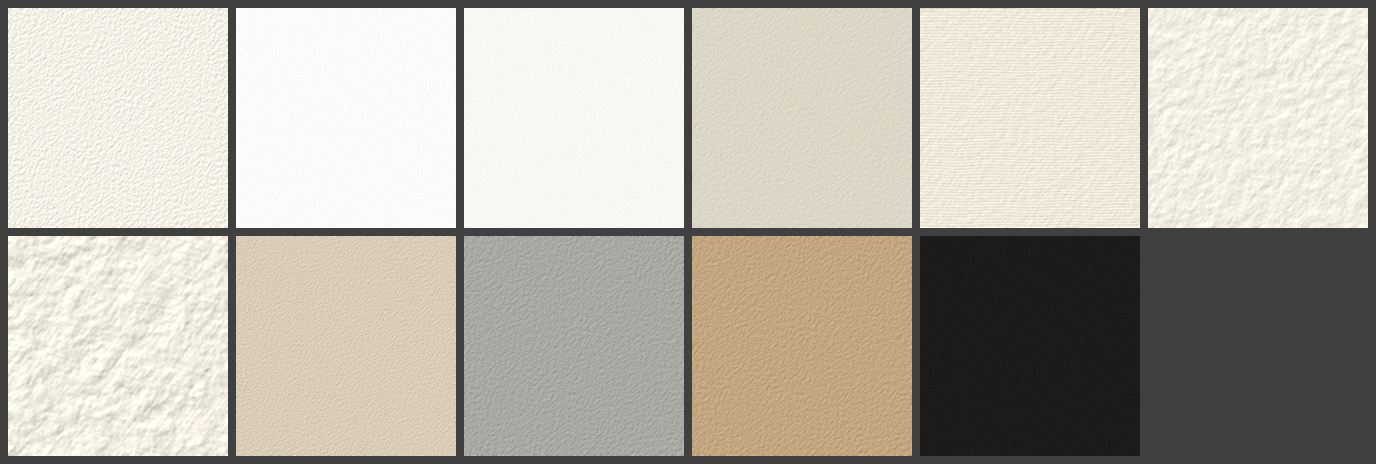
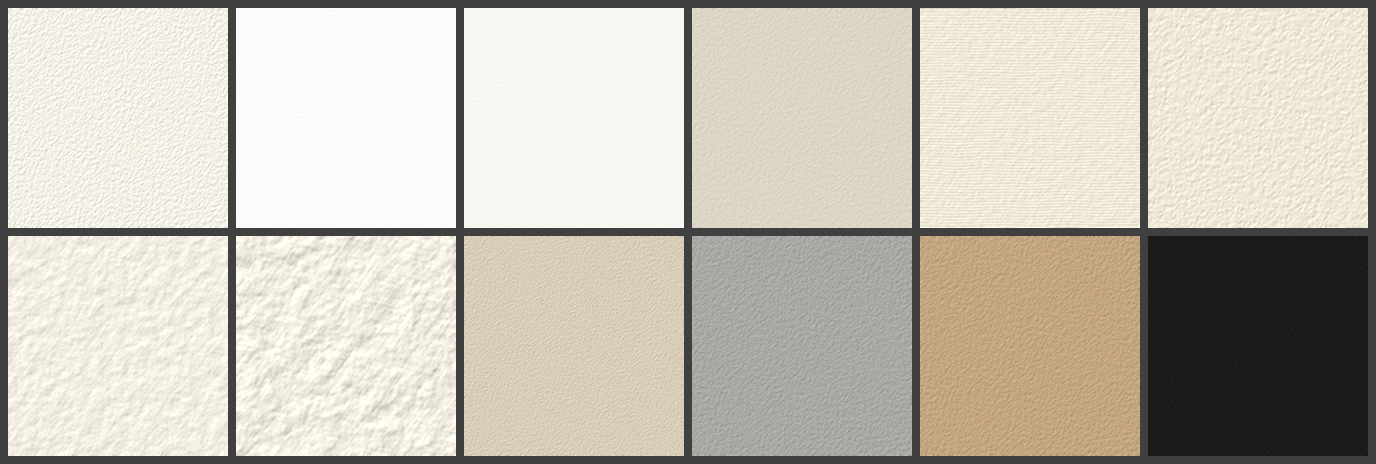
A pebbled paper texture for charcoal (joce/fusain#29)
* A pebbled paper for charcoal, between wove and rough

Paper(texture="pebbled") and the preset papers.CHARCOAL: small irregular
pits, each with its own depth and outline, in a net of lumpy rims. Its tooth
varies at the scale of a pit and little beside: a wove paper is all fine
flecks, and a rough one at a small grain is blotchy. The other textures and
papers draw as before; examples/output/papers.png gains a swatch.

Claude-Session: https://claude.ai/code/session_01EHReoiZM458FQgDCGHibf5

* Close fusain-1rt

Claude-Session: https://claude.ai/code/session_01EHReoiZM458FQgDCGHibf5

---------

diff --git a/murex/fusain/paper.py b/murex/fusain/paper.py
@@ -11,10 +11,29 @@ from murex import noise as nz
 from murex import spectral as sp
 from murex.filters import box_blur
 
-TEXTURES = ("wove", "laid", "rough", "sanded")
+TEXTURES = ("wove", "laid", "rough", "pebbled", "sanded")
 
 #: Laid paper: the chain lines are this many laid lines apart.
 CHAIN_SPACING = 18.0
+#: Pebbled paper: its pits are this many ``grain`` apart, centre to centre
+#: (a pit is about a grain across; the rest is the rim between two of them).
+PIT_SPACING = 1.3
+#: How far a pit may sit from its place in the grid, as a share of the
+#: spacing: nearly all the way, so that no rows or columns of pits show.
+PIT_SCATTER = 0.9
+#: How far the walls of a pit reach in from its rim, as a share of the
+#: spacing: its floor is what is further in than that.
+PIT_WALL = 0.8
+#: The shallowest pit, as a share of the deepest.
+PIT_SHALLOWEST = 0.3
+#: How far the outline of a pit strays from the straight sides its
+#: neighbours would give it, as a share of the spacing.
+PIT_STRAY = 0.3
+#: Pebbled paper: how much of the height is in the lumps of the rims between
+#: the pits, and how much in the fibres over everything, beside a depth of 1
+#: for the deepest pit.
+PEBBLE_LUMPS = 1.0
+PEBBLE_FIBRES = 0.2
 
 
 @dataclass(frozen=True)
@@ -32,13 +51,16 @@ class Paper:
     texture:
         ``"wove"`` (felted fibres, the usual drawing paper), ``"laid"`` (fine
         parallel lines crossed by chain lines, as in Ingres paper),
-        ``"rough"`` (the bumps of cold-pressed and rough watercolour paper)
-        or ``"sanded"`` (the sharp grit of pastel card).
+        ``"rough"`` (the bumps of cold-pressed and rough watercolour paper),
+        ``"pebbled"`` (the small irregular pits of a charcoal or pastel
+        paper, as if pressed with a felt) or ``"sanded"`` (the sharp grit of
+        pastel card).
     grain:
         Size of the tooth in pixels: the distance between neighbouring bumps
         of a wove paper, the spacing of the laid lines, the size of a bump of
-        a rough paper or of a grain of grit. This is what sets the scale of a
-        drawing: on drawing paper a pencil line is two or three grains wide.
+        a rough paper, of a pit of a pebbled one or of a grain of grit. This
+        is what sets the scale of a drawing: on drawing paper a pencil line
+        is two or three grains wide.
     depth:
         How deep the tooth is (0 = flat): how far a tip has to reach to touch
         the valleys, how many layers the paper takes, and how strongly the
@@ -90,7 +112,13 @@ class Paper:
 
     def tooth(self, h: int, w: int, rng: np.random.Generator) -> np.ndarray:
         """Height of the surface, (h, w) float32 from 0 (valley) to 1 (peak)."""
-        make = {"wove": _wove, "laid": _laid, "rough": _rough, "sanded": _sanded}
+        make = {
+            "wove": _wove,
+            "laid": _laid,
+            "rough": _rough,
+            "pebbled": _pebbled,
+            "sanded": _sanded,
+        }
         return _unit(make[self.texture](h, w, self.grain, rng)).astype(np.float32)
 
     def reflectance(self) -> np.ndarray:
@@ -141,6 +169,60 @@ def _rough(h, w, grain, rng) -> np.ndarray:
     bumps = nz.fractal_noise_2d(h, w, grain * 2.0, rng, octaves=3)
     fibres = nz.paper(h, w, grain * 0.5, rng)
     return 0.75 * _unit(bumps) + 0.25 * fibres
+
+
+def _pebbled(h, w, grain, rng) -> np.ndarray:
+    """Pits about ``grain`` across, :data:`PIT_SPACING` of it apart and
+    scattered, each with its own depth and its own outline; lumpy rims
+    between them; fibres over both. Nothing varies over more than a few pits
+    and little over less than one: a tone laid lightly is a net of dark rims
+    around pale pits, neither the fine flecks of a wove paper nor the blotches
+    of a rough one."""
+    cell = PIT_SPACING * grain
+    y, x = np.mgrid[0:h, 0:w].astype(np.float64)
+    # (the pits are looked up a little beside where they are, differently
+    # from place to place: their sides are not straight nor their corners
+    # sharp, as those of the cells around scattered points would be)
+    y += PIT_STRAY * cell * (2.0 * nz.fractal_noise_2d(h, w, 1.5 * cell, rng, 2) - 1.0)
+    x += PIT_STRAY * cell * (2.0 * nz.fractal_noise_2d(h, w, 1.5 * cell, rng, 2) - 1.0)
+    inside, deep = _pits(y, x, cell, rng)
+    wall = np.clip(inside / (PIT_WALL * cell), 0.0, 1.0)
+    pits = deep * (1.0 - (1.0 - wall) ** 2)
+    lumps = nz.value_noise_2d(h, w, 0.75 * cell, rng)
+    lumps -= box_blur(lumps, max(round(1.5 * cell), 1))
+    fibres = nz.paper(h, w, max(0.5 * grain, 1.0), rng)
+    return PEBBLE_LUMPS * lumps + PEBBLE_FIBRES * fibres - pits
+
+
+def _pits(y, x, cell, rng) -> tuple[np.ndarray, np.ndarray]:
+    """Pits scattered one to a square of side ``cell``, each owning the
+    ground nearer to its centre than to any other. For the points (``y``,
+    ``x``): how far inside its pit each is (0 on the rim, growing towards the
+    middle; in pixels), and how deep that pit is (:data:`PIT_SHALLOWEST` to
+    1)."""
+    reach = 2  # squares away a point's two nearest centres can be
+    pad = reach + 1  # (one more: the points stray off the sheet a little)
+    ny = int(np.ceil(y.shape[0] / cell)) + 2 * pad
+    nx = int(np.ceil(y.shape[1] / cell)) + 2 * pad
+    centre_y = (np.arange(ny)[:, None] + 0.5 - pad) * cell
+    centre_x = (np.arange(nx)[None, :] + 0.5 - pad) * cell
+    centre_y = centre_y + PIT_SCATTER * cell * (rng.random((ny, nx)) - 0.5)
+    centre_x = centre_x + PIT_SCATTER * cell * (rng.random((ny, nx)) - 0.5)
+    depth = 1.0 - (1.0 - PIT_SHALLOWEST) * rng.random((ny, nx))
+    row = np.clip(np.floor(y / cell).astype(np.intp) + pad, reach, ny - reach - 1)
+    col = np.clip(np.floor(x / cell).astype(np.intp) + pad, reach, nx - reach - 1)
+    nearest = np.full(y.shape, np.inf)
+    second = np.full(y.shape, np.inf)
+    deep = np.zeros(y.shape)
+    for dy in range(-reach, reach + 1):
+        for dx in range(-reach, reach + 1):
+            j, i = row + dy, col + dx
+            d = np.hypot(y - centre_y[j, i], x - centre_x[j, i])
+            nearer = d < nearest
+            second = np.where(nearer, nearest, np.minimum(second, d))
+            deep = np.where(nearer, depth[j, i], deep)
+            nearest = np.where(nearer, d, nearest)
+    return second - nearest, deep
 
 
 def _sanded(h, w, grain, rng) -> np.ndarray:

diff --git a/tests/fusain/test_paper.py b/tests/fusain/test_paper.py
@@ -3,8 +3,8 @@
 import numpy as np
 import pytest
 
-from fusain import Paper, papers
-from fusain.paper import TEXTURES
+from fusain import Paper, Sheet, charcoal, papers
+from fusain.paper import PIT_SPACING, TEXTURES
 
 
 def _tooth(paper, seed=3, h=120, w=160):
@@ -60,6 +60,110 @@ def test_rough_paper_has_broader_bumps_than_wove_of_the_same_grain():
     assert np.abs(np.diff(wove, axis=1)).mean() > np.abs(np.diff(rough, axis=1)).mean()
 
 
+def _share_by_scale(tooth, grain):
+    """The share of the tooth's variation at wavelengths under 0.8 grain,
+    from there to 4 grains, and above."""
+    a = tooth.astype(np.float64) - tooth.mean()
+    power = np.abs(np.fft.fft2(a)) ** 2
+    fy = np.fft.fftfreq(a.shape[0])[:, None]
+    fx = np.fft.fftfreq(a.shape[1])[None, :]
+    waves = grain * np.hypot(fy, fx)  # per grain
+    fine = power[waves > 1 / 0.8].sum()
+    broad = power[waves < 1 / 4.0].sum()
+    return fine / power.sum(), 1 - (fine + broad) / power.sum(), broad / power.sum()
+
+
+@pytest.mark.parametrize("grain", [3.0, 4.0, 5.0])
+def test_pebbled_paper_varies_at_the_scale_of_its_pits_and_little_beside(grain):
+    # (a wove paper has no more broad variation but is all fine flecks; a
+    # rough one of this grain is blotchy)
+    def shares(texture):
+        tooth = _tooth(Paper(texture=texture, grain=grain), h=256, w=256)
+        return _share_by_scale(tooth, grain)
+
+    fine, medium, broad = shares("pebbled")
+    assert medium > 0.75 and fine < 0.1 and broad < 0.15
+    assert shares("rough")[2] > 3 * broad
+    # no patches of high or low ground several pits wide
+    tooth = _tooth(Paper(texture="pebbled", grain=3.0)).astype(np.float64)
+    blocks = tooth[:120, :160].reshape(4, 30, 4, 40).mean(axis=(1, 3))
+    assert blocks.std() < 0.02
+
+
+def test_pebbled_paper_is_pits_in_a_net_of_rims():
+    grain = 5.0
+    tooth = _tooth(Paper(texture="pebbled", grain=grain), h=200, w=200)
+    low = tooth < 0.35
+    # the low ground is separate pits, most of the one to a square 1.3 grains
+    # wide that there are (the shallowest stay above it, and some run together)
+    pits = _count_patches(low)
+    assert 0.45 < pits * (PIT_SPACING * grain) ** 2 / low.size < 1.1
+    # and the high ground between them mostly hangs together
+    high = tooth > 0.5
+    assert _largest_patch(high) > 0.6 * high.sum()
+    # there is no grain to it: across and down are alike
+    down = np.abs(np.diff(tooth, axis=0)).mean()
+    across = np.abs(np.diff(tooth, axis=1)).mean()
+    assert 0.9 < down / across < 1.1
+
+
+def test_the_pits_of_a_pebbled_paper_differ_in_depth():
+    tooth = _tooth(Paper(texture="pebbled", grain=6.0), h=240, w=240)
+    floors = [tooth[where].min() for where in _patches(tooth < 0.45) if where[0].size]
+    assert len(floors) > 300
+    assert np.percentile(floors, 90) - np.percentile(floors, 10) > 0.25
+
+
+def test_a_charcoal_tone_on_pebbled_paper_is_neither_flecked_nor_blotchy():
+    def tone(texture):
+        paper = papers.CHARCOAL.with_(texture=texture)
+        sheet = Sheet(260, 200, paper=paper, seed=2)
+        for angle in (35, -30):
+            sheet.shade((10, 10, 250, 190), charcoal.VINE, 0.3, 14.0, angle)
+        grey = sheet.render(lighting=False)[30:170, 30:230].mean(axis=2)
+        return grey - grey.mean()
+
+    def patches(grey, size):
+        """How much the tone differs between squares ``size`` wide."""
+        h, w = grey.shape[0] // size, grey.shape[1] // size
+        cut = grey[: h * size, : w * size]
+        return cut.reshape(h, size, w, size).mean(axis=(1, 3)).std()
+
+    wove, rough, pebbled = tone("wove"), tone("rough"), tone("pebbled")
+    # the paper shows as much in each
+    assert 0.8 < pebbled.std() / wove.std() < 1.2
+    # squares five grains wide differ far less than on a rough paper...
+    assert patches(pebbled, 20) < 0.6 * patches(rough, 20)
+    # ...and neighbouring pixels are no less alike than on a wove one
+    step = [np.abs(np.diff(t, axis=1)).mean() for t in (wove, pebbled)]
+    assert step[1] < step[0]
+
+
+def _patches(mask):
+    """The patches of ``mask`` that hang together by their sides, as index
+    arrays."""
+    label = np.where(mask, np.arange(mask.size).reshape(mask.shape), -1)
+    while True:  # every cell takes the highest label among its neighbours
+        grown = label.copy()
+        grown[1:] = np.maximum(grown[1:], label[:-1])
+        grown[:-1] = np.maximum(grown[:-1], label[1:])
+        grown[:, 1:] = np.maximum(grown[:, 1:], label[:, :-1])
+        grown[:, :-1] = np.maximum(grown[:, :-1], label[:, 1:])
+        grown[~mask] = -1
+        if np.array_equal(grown, label):
+            break
+        label = grown
+    return [np.nonzero(label == name) for name in np.unique(label[mask])]
+
+
+def _count_patches(mask):
+    return len(_patches(mask))
+
+
+def _largest_patch(mask):
+    return max(where[0].size for where in _patches(mask))
+
+
 def test_sanded_card_is_an_even_field_of_sharp_grit():
     sanded = _tooth(Paper(texture="sanded", grain=3.0)).astype(np.float64)
     wove = _tooth(Paper(texture="wove", grain=3.0)).astype(np.float64)
@@ -105,7 +209,7 @@ def test_with_changes_a_copy():
 
 def test_presets_are_named_and_distinct():
     names = [paper.name for paper in papers.ALL]
-    assert len(set(names)) == len(names) == 11
+    assert len(set(names)) == len(names) == 12
     assert len(set(papers.ALL)) == len(papers.ALL)
     for paper in papers.ALL:
         assert paper.reflectance().shape == (24,)

diff --git a/murex/fusain/papers.py b/murex/fusain/papers.py
@@ -29,6 +29,17 @@ NEWSPRINT = Paper(
 )
 #: Laid paper for charcoal and pastel: its lines show through a light tone.
 INGRES = Paper("laid", grain=3.0, depth=1.0, bite=0.55, color="#efe9da", name="Ingres")
+#: Charcoal paper: a pebbled tooth with no lines to it, on a thick, soft
+#: sheet; warm cream. A light tone on it is a net of dark around pale pits.
+CHARCOAL = Paper(
+    "pebbled",
+    grain=4.0,
+    depth=0.9,
+    bite=0.55,
+    give=0.6,
+    color="#eee8d7",
+    name="charcoal paper",
+)
 #: Watercolour paper, cold-pressed: a marked, bumpy tooth.
 COLD_PRESSED = Paper(
     "rough",
@@ -66,6 +77,7 @@ ALL = (
     BRISTOL,
     NEWSPRINT,
     INGRES,
+    CHARCOAL,
     COLD_PRESSED,
     ROUGH,
     SANDED,

diff --git a/docs/fusain/design.md b/docs/fusain/design.md
@@ -67,8 +67,17 @@ across, and shading came out in blotches wider than the pencil.)
 
 The paper itself is described by a `Paper` (texture, tooth size in pixels,
 depth of the tooth, how abrasive it is, how much it gives under a tip, colour), with presets such as
-cartridge paper, hot-pressed, cold-pressed, laid (Ingres) and sanded pastel
-paper.
+cartridge paper, hot-pressed, cold-pressed, laid (Ingres), pebbled (charcoal
+paper) and sanded pastel paper.
+
+A texture is judged by the scales at which its tooth varies, since a tone laid
+on it varies at the same ones. A wove paper varies at a grain and below: a
+tone on it is fine flecks. A rough paper also varies over many grains, so at
+a small grain a tone on it is blotchy. A pebbled paper is pits a grain
+across, 1.3 grains apart, each with its own depth and outline, in a net of
+rims: it varies at the scale of a pit and little beside (at grain 4, a tenth
+of its variation is at wavelengths over four grains, against over half for a rough
+paper), and a light tone on it is a net of dark around pale pits.
 
 ## A medium
 

diff --git a/docs/fusain/CHANGELOG.md b/docs/fusain/CHANGELOG.md
@@ -32,6 +32,13 @@ and the project adheres to [Semantic Versioning](https://semver.org/).
 
 ### Added
 
+- A pebbled paper: `Paper(texture="pebbled")`, and the preset
+  `papers.CHARCOAL`, a cream charcoal paper. Its tooth is small irregular
+  pits, each with its own depth and outline, in a net of rims: between a wove
+  paper, on which a tone enlarged is fine flecks, and a rough one, which at a
+  small grain is blotchy. A light tone of charcoal on it is a net of dark
+  around pale pits; meant for a grain of 3 to 5 pixels. The other textures and
+  papers draw as before.
 - Four drawings as examples, each a script and the image it writes: an art
   deco tower in charcoal (`examples/deco.py`), Broadway in SoHo in pastel
   (`examples/broadway.py`), a great green macaw in coloured pencil

diff --git a/docs/fusain/README.md b/docs/fusain/README.md
@@ -242,8 +242,8 @@ more the heavy graphite mirrors it; the charcoal stays black.
 ![The papers under a raking light](examples/output/papers.png)
 
 The papers of `fusain.papers` under a raking light: cartridge, printer paper,
-Bristol, newsprint, Ingres, cold-pressed; rough, sanded card, toned grey, toned
-tan, black.
+Bristol, newsprint, Ingres, charcoal paper; cold-pressed, rough, sanded card,
+toned grey, toned tan, black.
 
 ## Development
 
